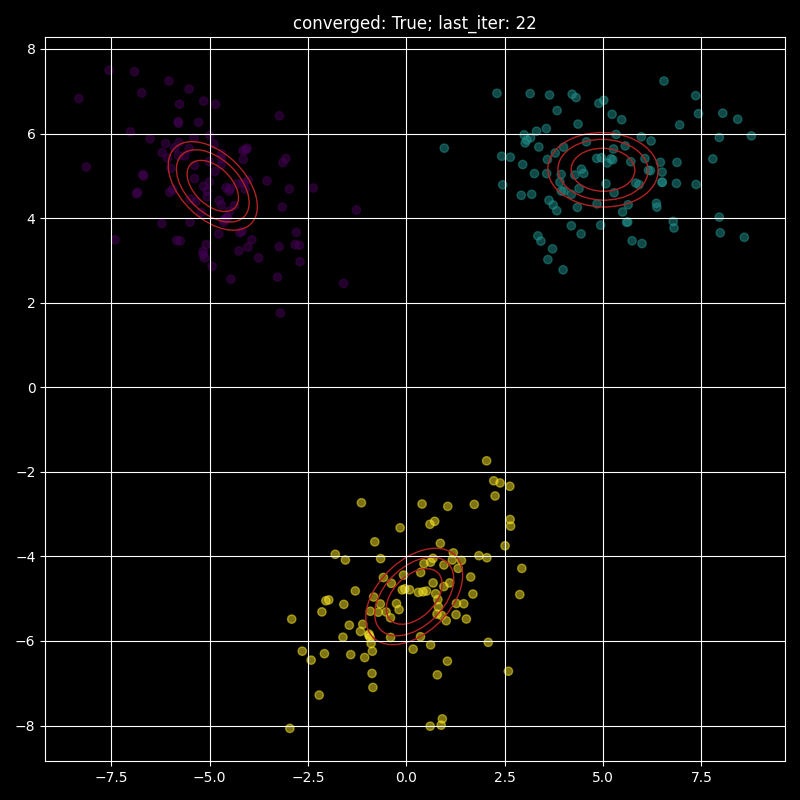
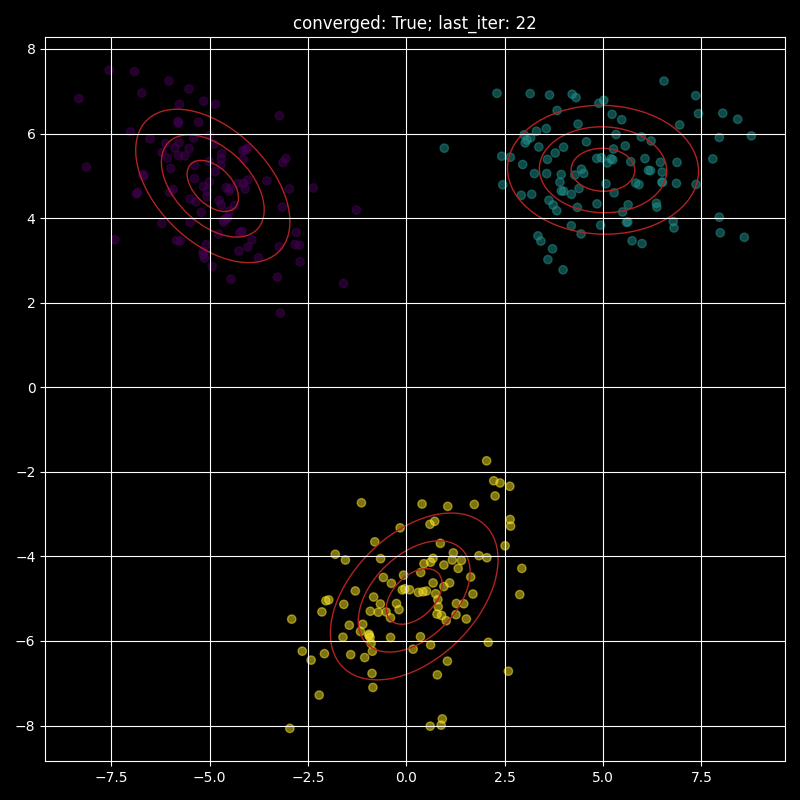
fixed confidence interval plots with the ellipses;
the ellipse plots now correspond to 1, 2 and 3 standard deviation boundaries for the gaussians

diff --git a/gmm/plotting_funcs.py b/gmm/plotting_funcs.py
@@ -18,8 +18,13 @@ def get_ellipses(gmm_model, ax, n_stds=1, facecolor="none", **kwargs):
             Ellipse(
                 (m[0], m[1]),
                 # eigvals of Precision are inverse eigvals of Cov;
-                width=sqrt(eig_pairs.eigenvalues[0] * n_stds),
-                height=sqrt(eig_pairs.eigenvalues[1] * n_stds),
+                # eigvec.T @ Precision @ eigvec = 1 / eigval
+                # eigval * eigvec.T @ Precision @ eigvec = 1
+                # (n_stds ^ 2) * eigval * eigvec.T @ Precision @ eigvec = n_stds ^ 2
+                # so you need x = n_stds * sqrt(eigval) * eigvec
+                # such that x.T @ Precision @ x = n_stds ^ 2;
+                width=sqrt(eig_pairs.eigenvalues[0]) * n_stds,
+                height=sqrt(eig_pairs.eigenvalues[1]) * n_stds,
                 angle=angle,
                 facecolor=facecolor,
                 **kwargs,

diff --git a/gmm/README.md b/gmm/README.md
@@ -12,7 +12,30 @@
 	```
 * From tag `v1` you can also pass parameters as initial point to warm start the model.
 
-### Example of fitted GMM:
+### For the plotting funcs:
+I am illustrating the boundaries, such that all points within lie $ \sqrt{k}$ standard deviations away from the mean. 
+For example 1, 2 and 3 standard deviations correspond to $ k=1, 4, 9$ respectively.
+Since the covariance matrix is positive definite for the Gaussian density to be difined, we use the spectral theorem for real symmetric matrices and get real, positive eigenvalues and orthogonal unit vectors.
+Let the quadratic form be defined as
+
+$$
+\begin{equation}
+	\Delta(x):=(x-\mu)^T \Sigma^{-1}(x-\mu).
+\end{equation}
+$$
+
+Then for any eigenvector, $v$, with eigenvalue, $\lambda$, of $\Sigma$ we have:
+
+$$
+\begin{align}
+	v^T \Sigma^{-1} v &= \frac{1}{\lambda}\notag\\
+	&\iff x^T \Sigma^{-1} x = 1  && \text{(for $x=\sqrt{\lambda}v$)}.
+\end{align}
+$$
+
+The equations of the type given above, define an ellipse such that all vectors, $y$ within it are sure to have $\Delta(y+\mu)\le 1$. This ellipse corresponds to the 1 standard deviation boundary. If we want $\sqrt{k}$ standard deviations, we will scale the eigenvectors by $\sqrt{\lambda k}$, such that $\Delta(\sqrt{\lambda k}v + \mu) = k$ for all eigenvectors $v$ with corresponding eigenvalues $\lambda$.
+
+### Example of fitted GMM showing contours for 1, 2, 3 standard deviations:
 
 ![alt text](https://github.com/mariovas3/probabilistic_models/blob/master/ci_plots.png)
 
